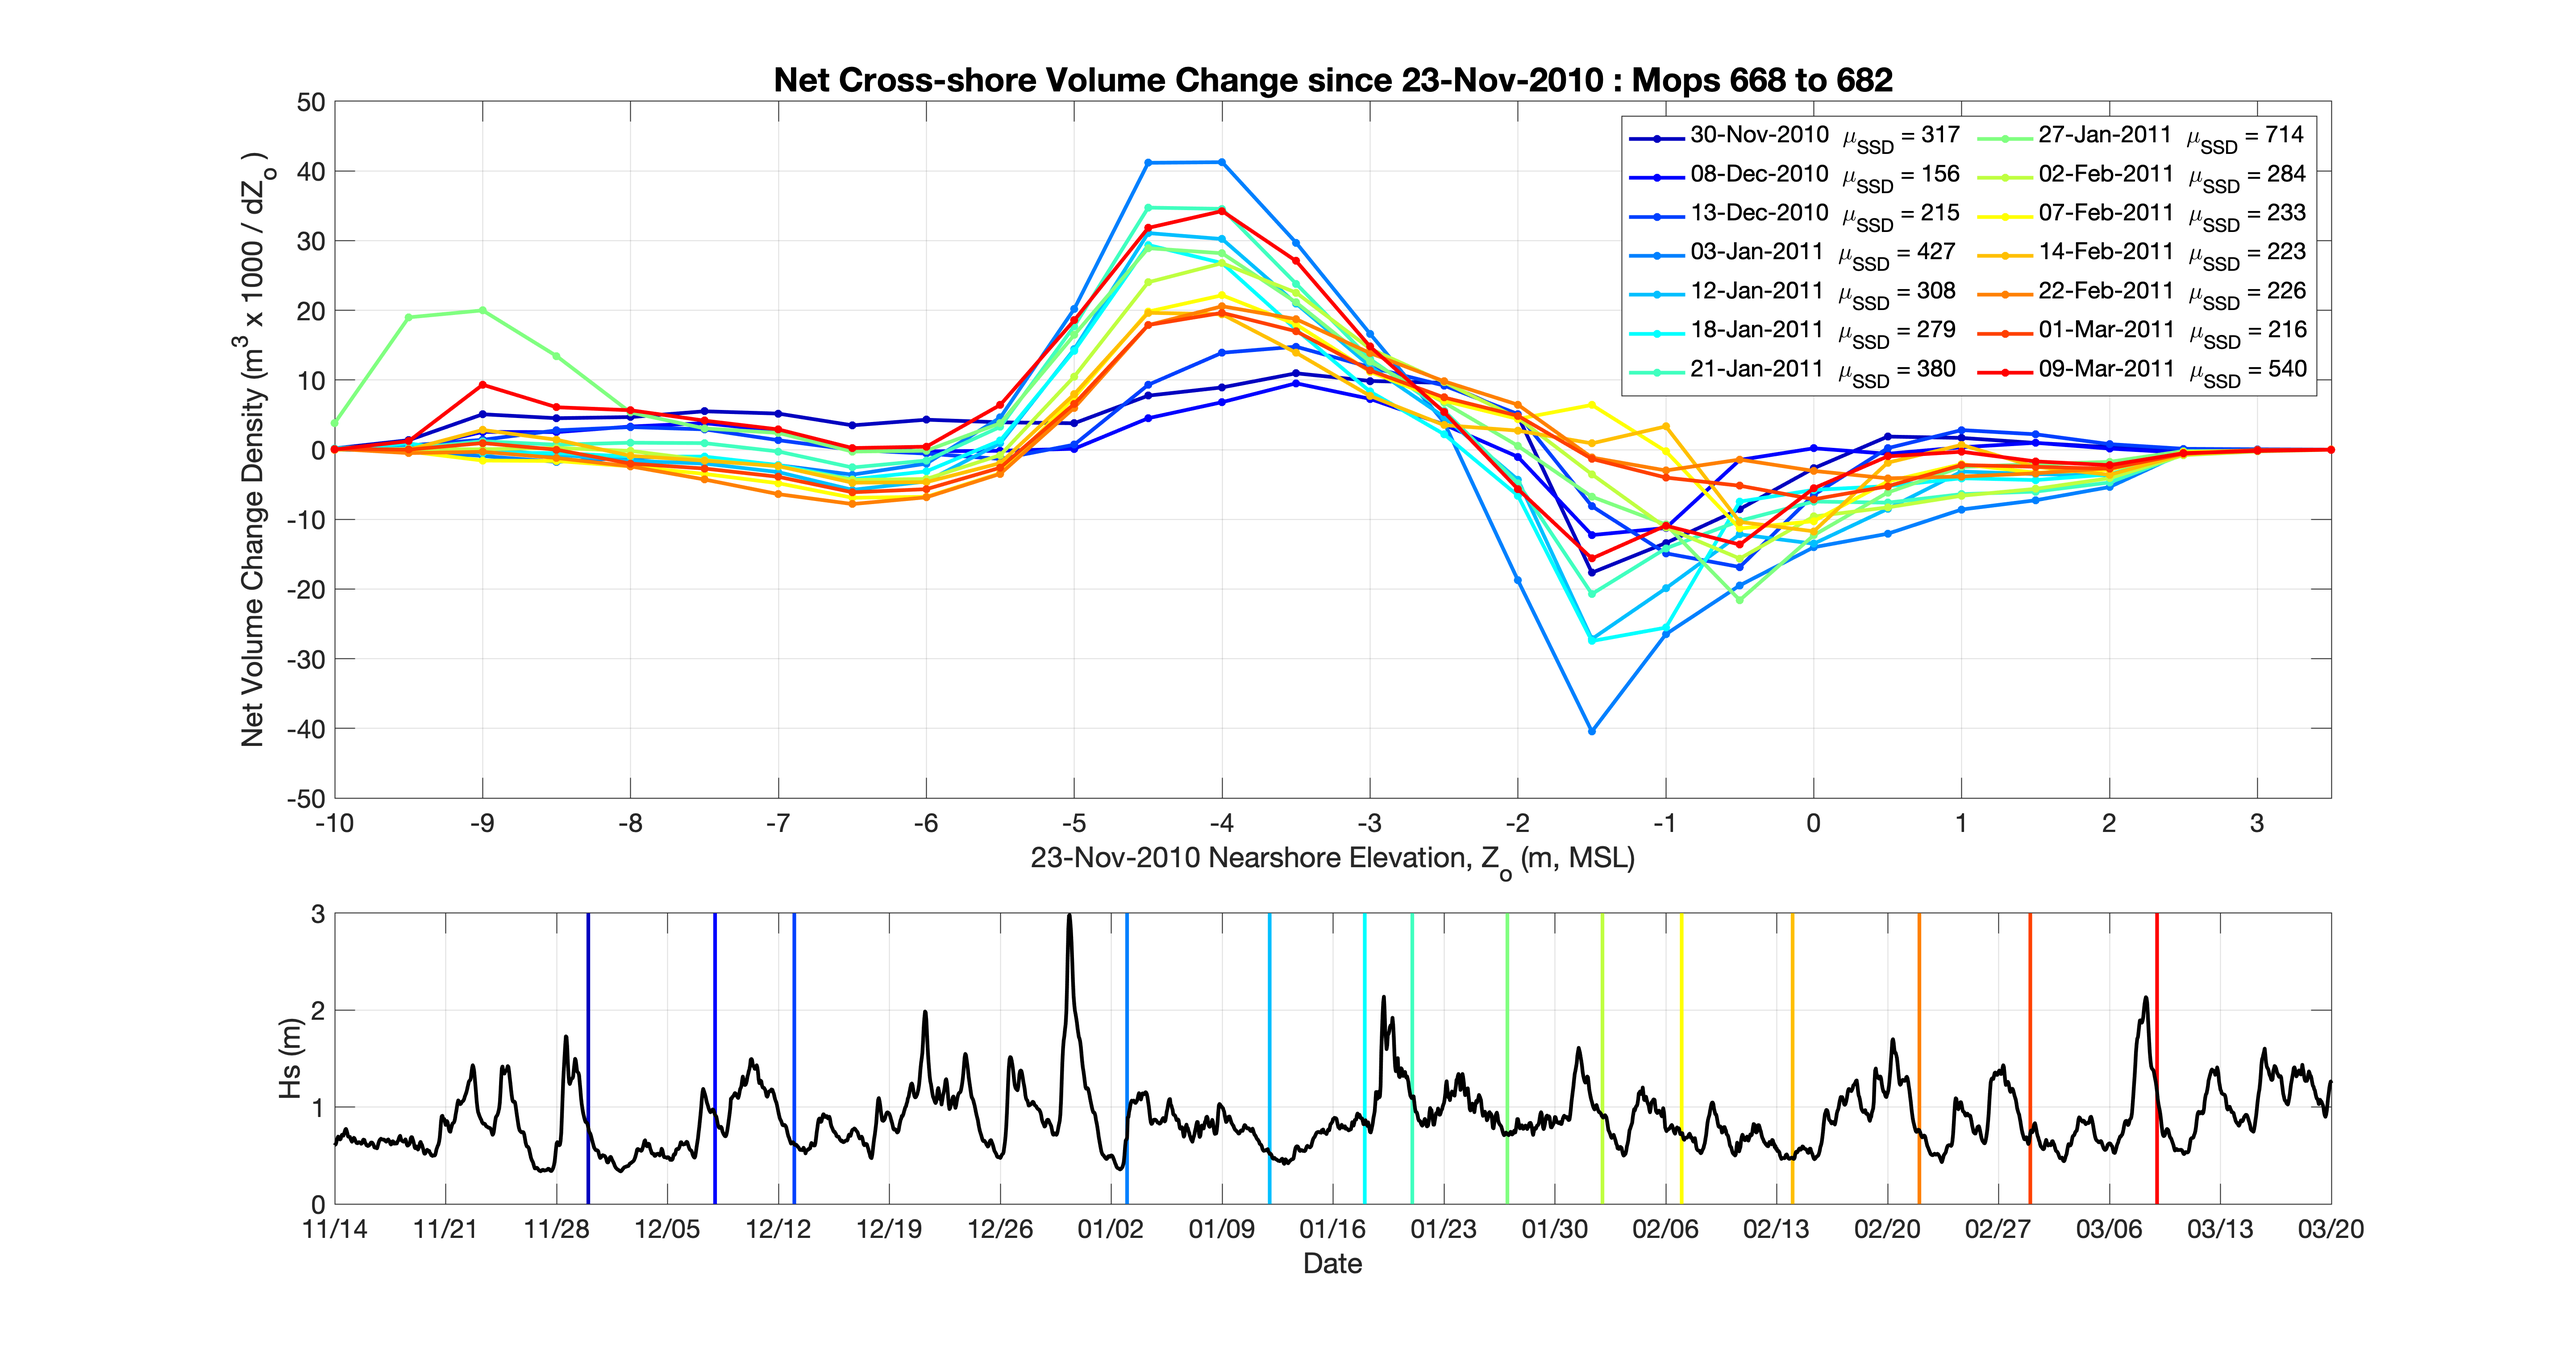
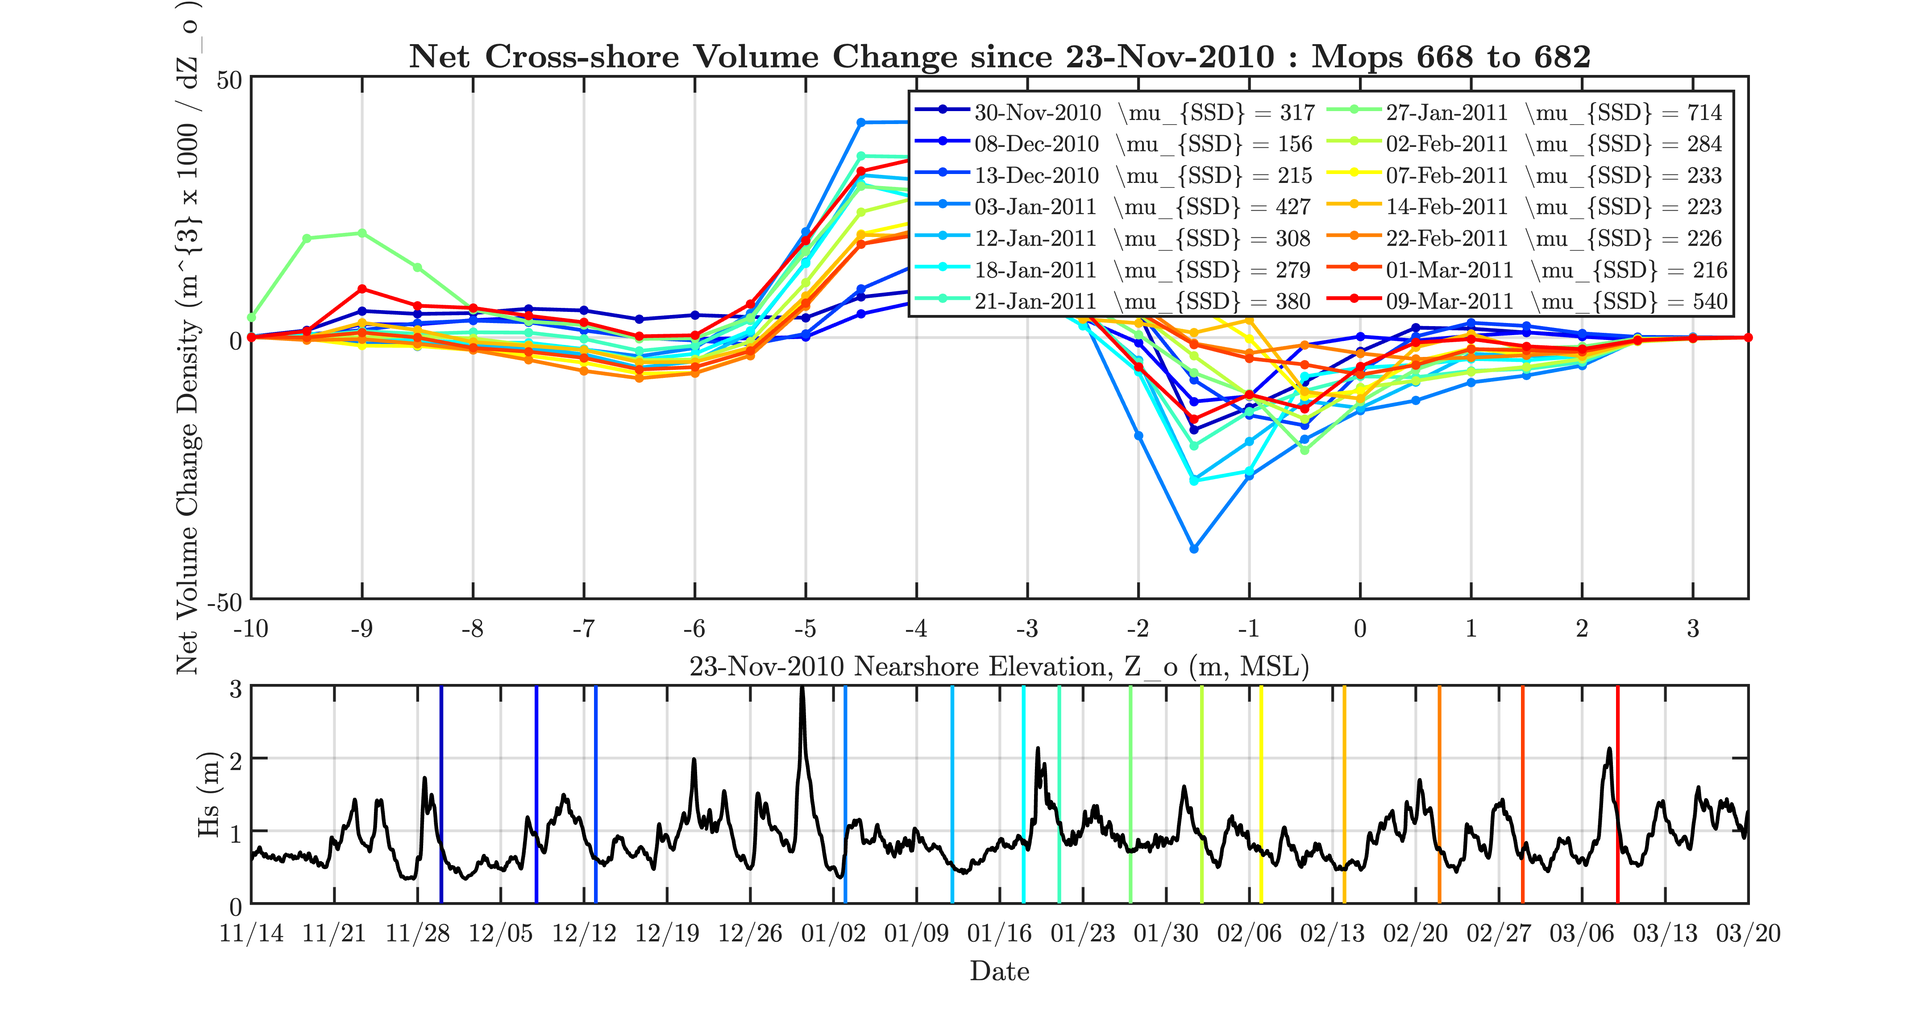
Added a codebase analyis and a codemap, as well as a readme for sand volume calculations

diff --git a/ExamplePlotReachJetskiVolumeEvolution.m b/ExamplePlotReachJetskiVolumeEvolution.m
@@ -12,17 +12,17 @@
 
 %% settings
 % 1. Path to CPGMOP data files
-%mpath='/volumes/group/MOPS/'; % reefbreak on a mac
-mpath='/Users/William/Desktop/MOPS/';
+mpath='/volumes/group/MOPS/'; % reefbreak on a mac
+%mpath='/Users/William/Desktop/MOPS/';
 
 % 2. Mop range to use in volume change calculations
-MopStart=668;MopEnd=682; % start and mop numbers for Cardiff
-%MopStart=568;MopEnd=598; % start and mop numbers for north TP
+%MopStart=668;MopEnd=682; % start and mop numbers for Cardiff
+MopStart=570;MopEnd=590; % start and mop numbers for north TP
 
 % 3. Date range to consider. The first and last dates to not
 %    have to match survey dates precisely
-StartDate=datenum(2010,11,22);
-EndDate=datenum(2011,3,10);
+StartDate=datenum(2022,8,1);%datenum(2010,11,22);
+EndDate=datenum(today);%datenum(2011,3,10);
 
 % 4. Elevation bin sizes (m) to use when calculating volume change as 
 %    a function of the starting survey grid elevations. Larger
@@ -127,12 +127,12 @@ for n=2:length(jetski)
     mu=round(-mu/L); 
     % plot results
     fprintf('%s\n',[datestr(SG(jetski(n)).Datenum) '  \mu_{SSD} = ' num2str(mu)])
-    plot([min(z0bin(:)):max(z0bin(:))]*zRes,dv/1000,'.-','color',col(n-1,:),...
+    plot((min(z0bin(:)):max(z0bin(:)))*zRes,dv/1000,'.-','color',col(n-1,:),...
     'markersize',15,'DisplayName',...
     [datestr(SG(jetski(n)).Datenum) '  \mu_{SSD} = ' num2str(mu)] ,'linewidth',2);hold on
 end
 grid on;
-legend('numcolumns',2)
+legend('numcolumns',2,'Location','eastoutside')
 set(gca,'xtick',min(z0bin(:)):max(z0bin(:))*zRes,'xlim',[min(z0bin(:)) max(z0bin(:))]*zRes);
 xlabel([ datestr(SG(jetski(1)).Datenum) ' Nearshore Elevation, Z_o (m, MSL)']);
 ylabel('Net Volume Change Density (m^{3} x 1000 / dZ_o )');
@@ -144,7 +144,7 @@ set(gca,'position',[0.1300    0.4100    0.7750 0.5150])
 %% add wave Hs time series as 2nd axes
 
 % use Mop in middle of Cardiff for wave info
-MopNumber=675;
+MopNumber=580;%675;
 stn=['D0' num2str(MopNumber)];
 
 urlbase=...  % nearshore station
@@ -184,10 +184,11 @@ ylabel('Hs (m)')
 xlabel('Date')
 set(gca,'fontsize',14);
 grid on;
-datetick('x','mm/dd')
+%datetick('x','mm/dd')
 
 % legend
-makepng('CardiffFrequentJetskiEvolution.png')
+makepng('Torrey20222025FrequentJetskiEvolution.png')
+%makepng('CardiffFrequentJetskiEvolution.png')
 
 %
 % 
